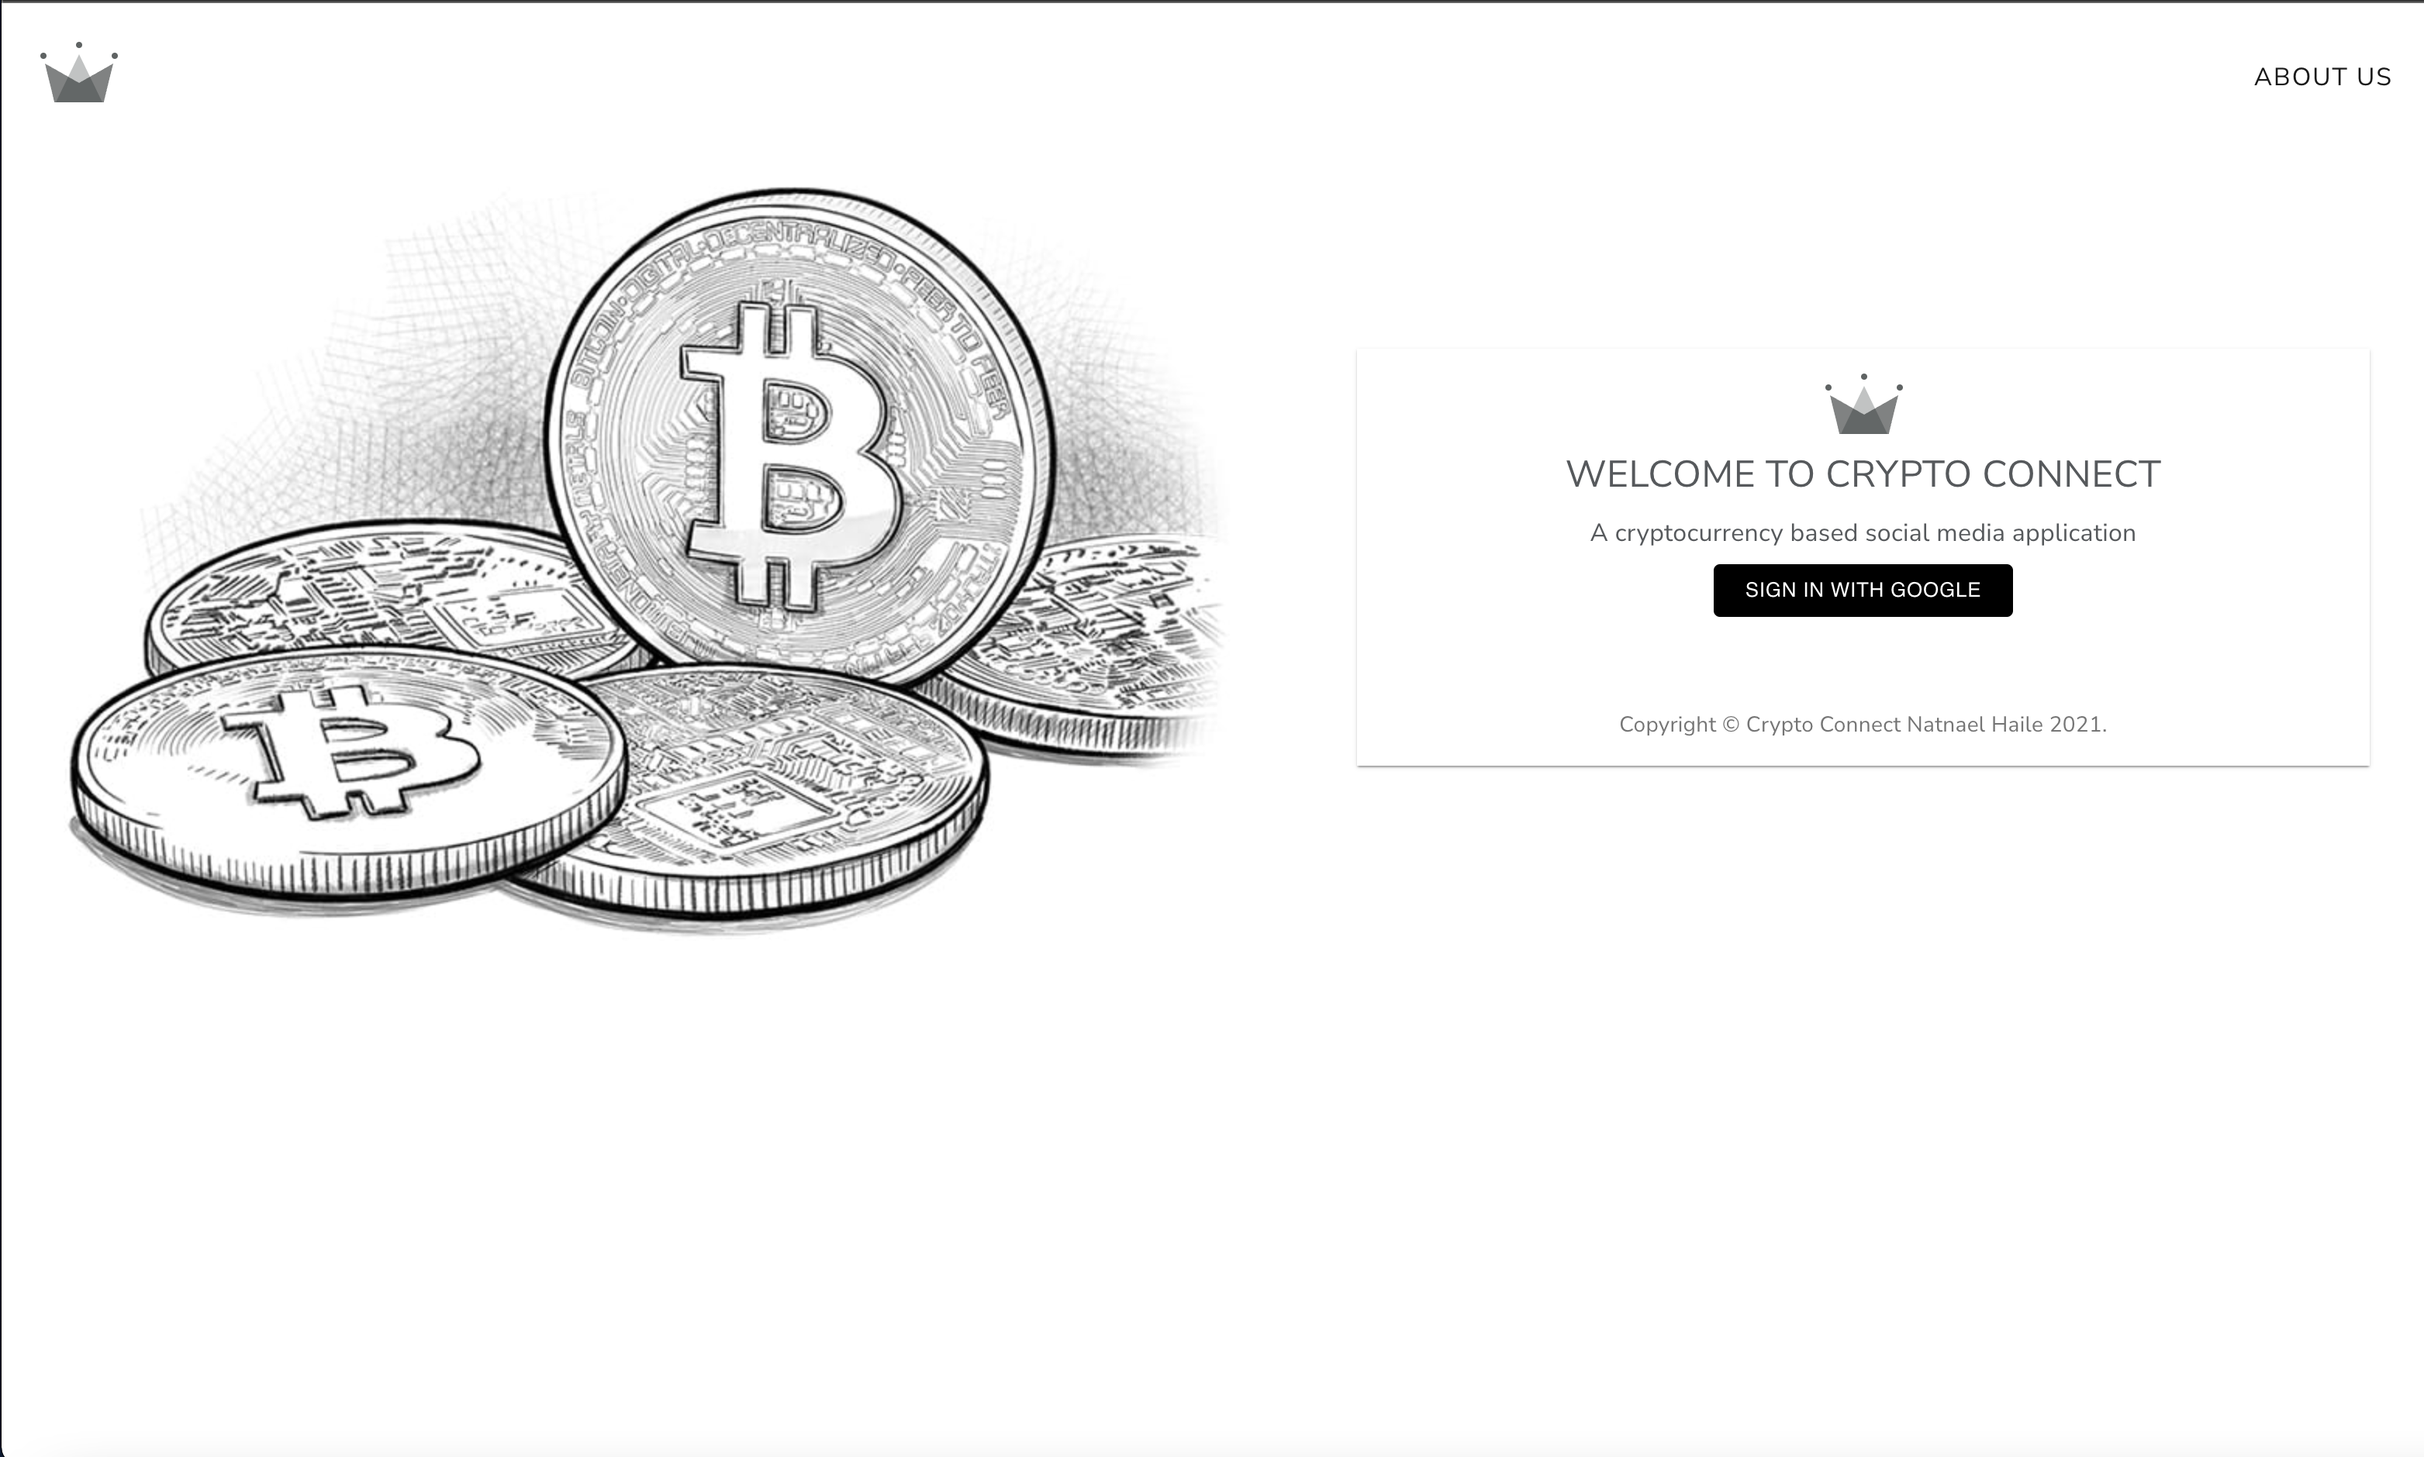
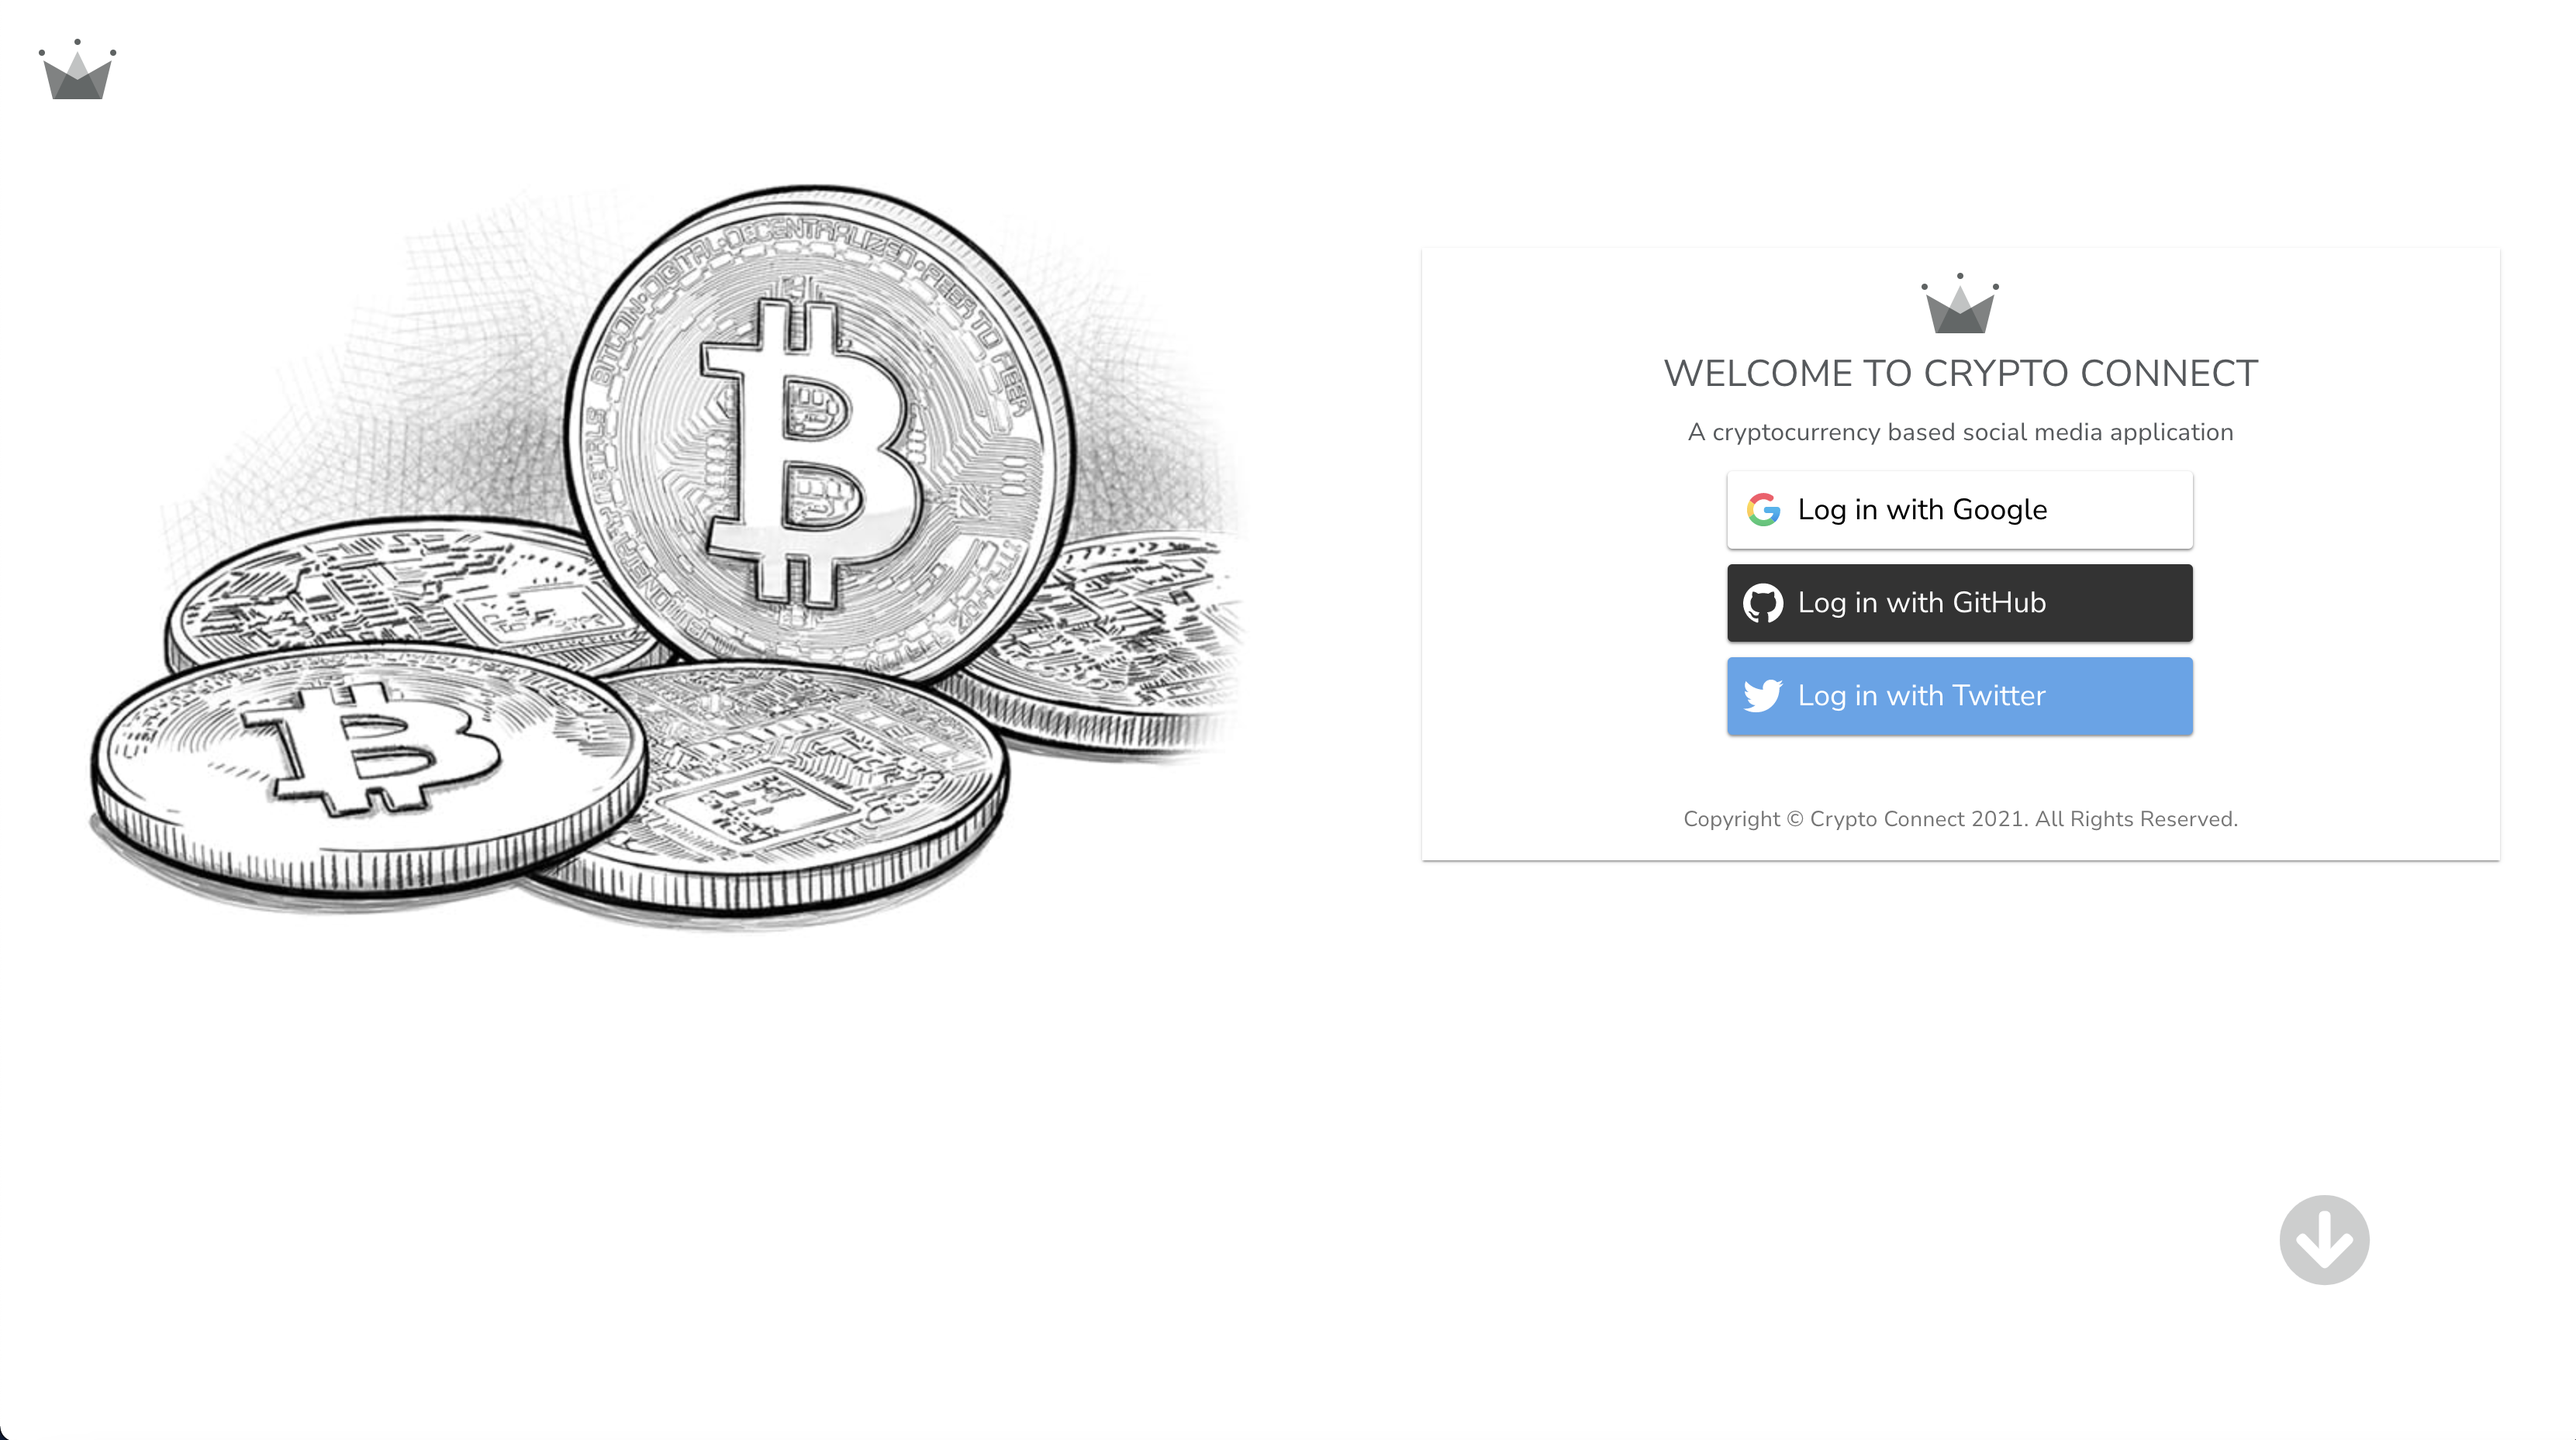
update-crypto-connect-data

diff --git a/src/components/projects/content.js b/src/components/projects/content.js
@@ -1,10 +1,10 @@
 const projectContent = {
   cryptoConnect: [
-    'Built with Material-UI, React, Redux, JavaScript, TypeScript, Firebase, GraphQL, MySQL, Sequelize, Docker, Jest, Chai...',
-    'User Authentication using Google Firebase.',
-    'Integrated loading animation for all the components',
+    'Built with Material-UI, React, Redux, JavaScript, TypeScript, Firebase, GraphQL, MySQL, Sequelize, Docker, Jest, Chai',
+    'User Authentication using Google Firebase (Google, Github, Twitter)',
     'Features include personalized user profile, posts, comments, likes, dislikes, messaging, following other users',
     'Share Posts, and Tweets',
+    'Integrated loading animation and error handling for all the components',
     'Create a cryptocurrency portfolio and share it with friends',
     'Get real-time crypto pricing, tweets about crypto holdings and other info',
     'Ability to use dockerized images for local development',
@@ -32,14 +32,14 @@ const projectContent = {
   ],
   quizApp: [
     'Built with HTML, CSS, jQuery & JavaScript',
-    '3 min timed IQ test with 10-sec deduction for every question missed.',
-    'Button color change based user\'s answer. ',
+    '3 min timed IQ test with 10-sec deduction for every question missed',
+    'Button color change based user\'s answer',
     'Highlights page to view past results',
   ],
   techBlog: [
     'Built with Bulma, JavaScript, Node, Express, MySQL, Sequelize, & Handlebars',
     'User Accounts and Profiles',
-    'Add/Update/Delete post.',
+    'Add/Update/Delete post',
     "Comment on other users' posts",
   ],
   smartBank: [
